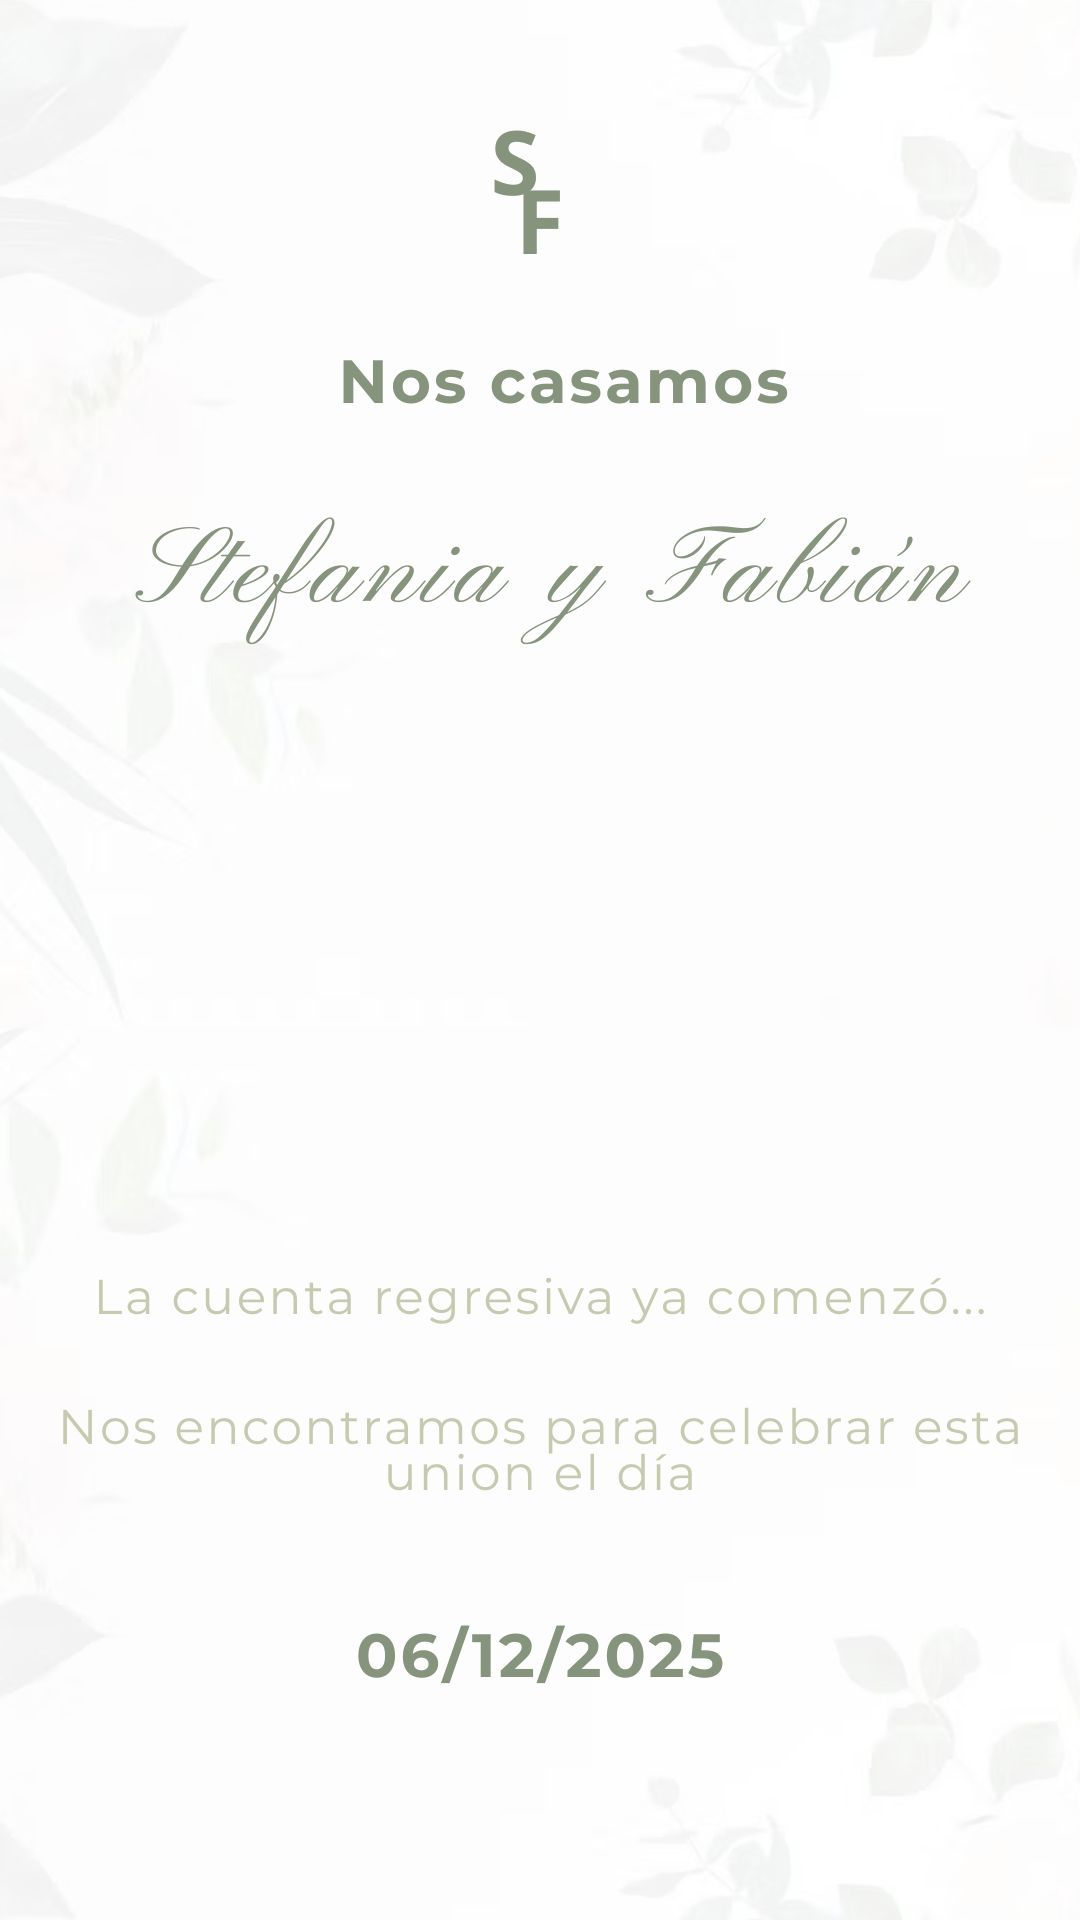
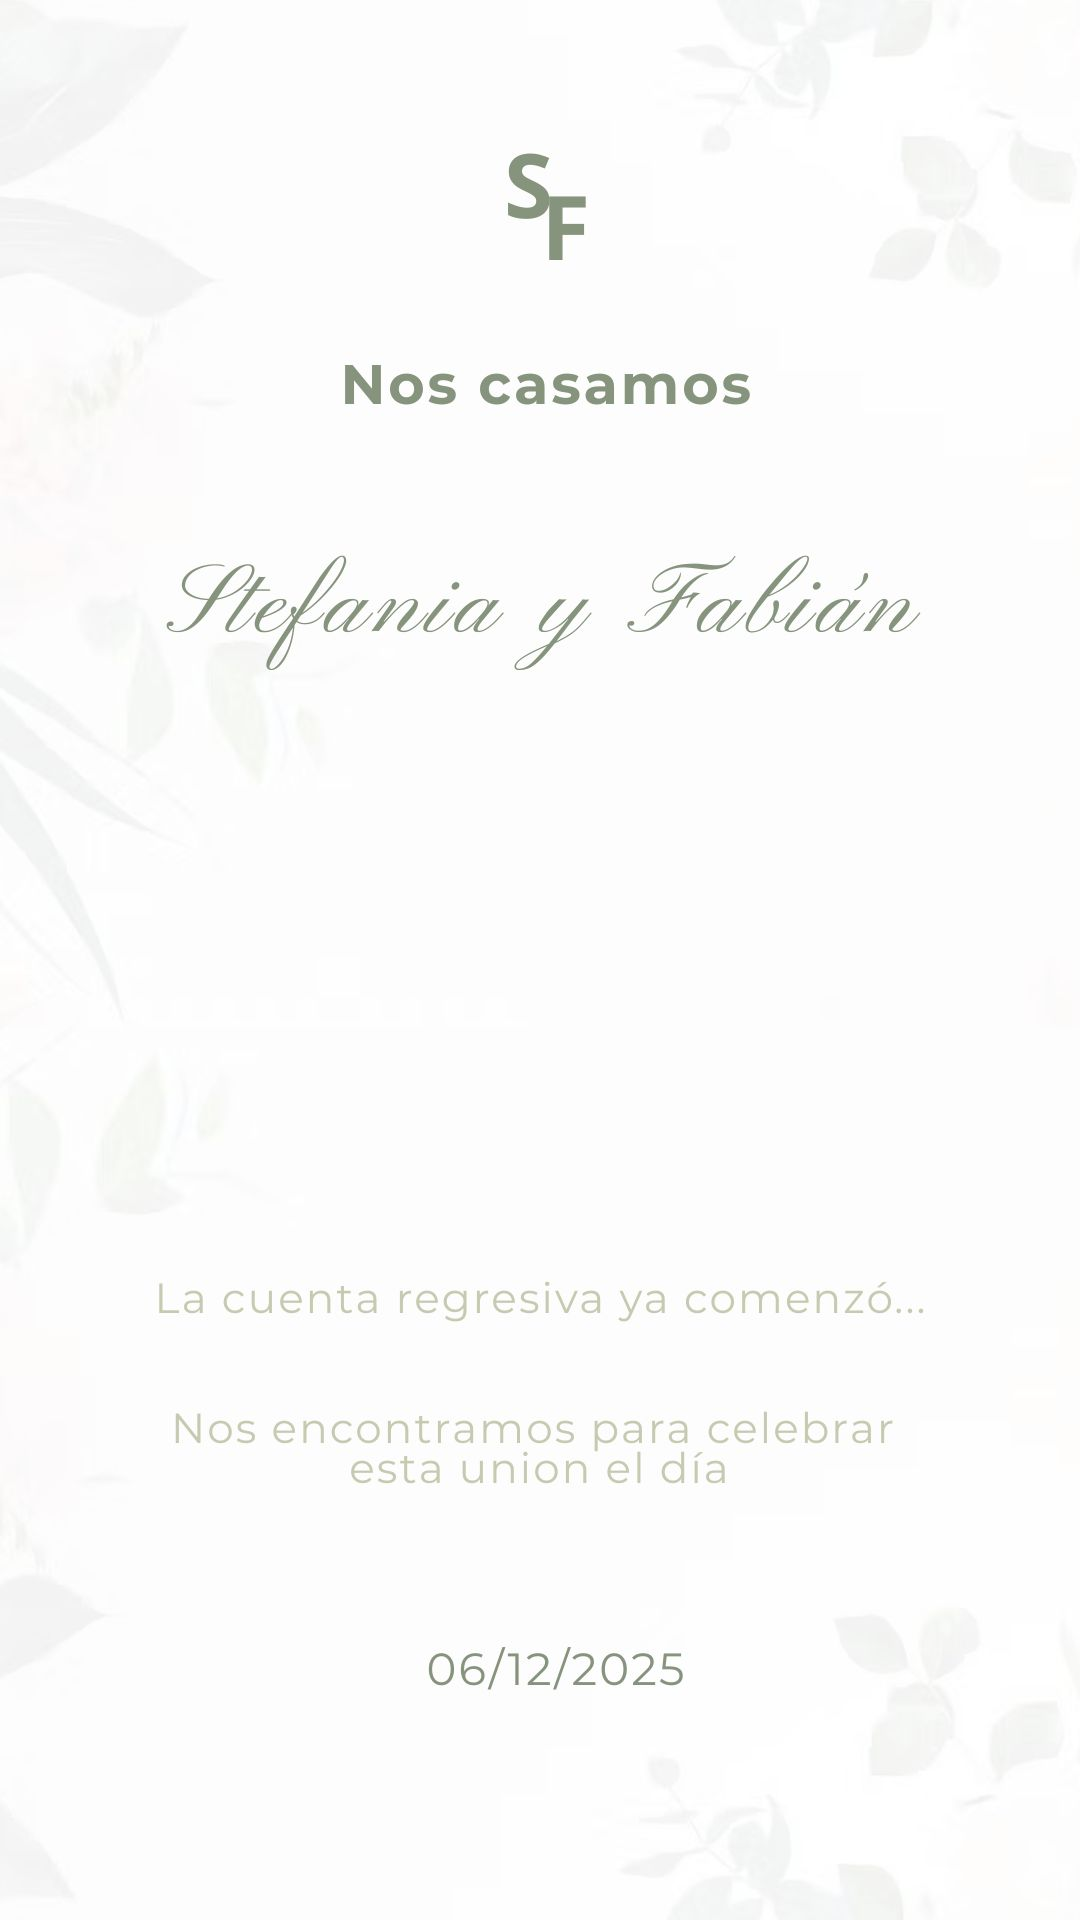
nuevo

diff --git a/style.css b/style.css
@@ -7,47 +7,55 @@
    
   }
 
-.click {
-    padding: 3px 11px;
-    margin-top: -170%;
-    font-size: 28px;
-    font-weight: 600;
-    color: #ffffff;
-   
-   background-size: 120%;
-    box-shadow: 1px 1px 30px -5px#d5ffd7; 
-    cursor: pointer;
-    margin-left: 81%;
-    border-radius: 50%;
-    background-color: #5b603c;
-  }
   
-  .melodia{
-    color: #ffffff;
-
-  }
-
+ 
 
 
   
   
   .portada{
     width: 100%;
-    margin-top: -5%;
+
   }
     
-  .audio{
-    width: 35%;
-    height: 20px;
-    margin-left: -70%;
-    background-color:  #ffffff;
-    color: #3d3d3d;
-    margin-top: -48%;
-    
-}
 
+ /* Contenedor redondo */
+  .music-player {
+    width: 50px;
+  height: 50px;
+  background: #86937d;
+  border-radius: 50%;
+  display: flex;
+  justify-content: center;
+  align-items: center;
+  cursor: pointer;
+  box-shadow: 0 4px 10px rgba(0,0,0,0.3);
+  animation: float 2s ease-in-out infinite; /* movimiento arriba-abajo */
   
+  /* Fijar arriba */
+  position: fixed;
+  top: 20px;   /* distancia desde arriba */
+  right: 20px; /* lo mantiene a la derecha */
+  z-index: 9999; /* asegura que quede por encima de todo */
   
+  }
+
+  /* Botón play */
+  .play-btn {
+    font-size: 28px;
+    color: white;
+    background: none;
+    border: none;
+    outline: none;
+    cursor: pointer;
+  }
+  
+   /* Animación de flotación */
+  @keyframes float {
+    0%   { transform: translateY(0px); }
+    50%  { transform: translateY(-10px); }
+    100% { transform: translateY(0px); }
+  }
   
   
   
@@ -69,16 +77,13 @@
         justify-content: center;
         gap: 1em;
         padding: 0.3em;
-        margin-top: -106%;
+        margin-top: -95%;
     }
     
-  .portada{
-    width: 100%;
-  }
-    
+
   
     .cr-time > span {
-        font-size: 40px;
+        font-size: 25px;
         font-weight: bold;
         color: #86937d;
         font-family: 'Julius Sans One', sans-serif;
@@ -133,7 +138,7 @@
            margin-top: 20%;
     }
   .seccion-fiesta{
-    margin-top: 80%;
+    margin-top: 70%;
   }
   .seccion-regalo{
     margin-top: -5%;
@@ -144,29 +149,28 @@
   
   .fiesta{
     text-align: center;
-    font-size: 40px;
+    font-size: 30px;
     color: #86937d;
-  
     margin: 20%;
-    font-weight: 400;
+    font-weight: 550;
   font-family: "Pinyon Script", cursive;
 
   }
    .asistencia{
     text-align: center;
-    font-size: 40px;
+    font-size: 30px;
     color: #86937d;
     margin-top: 20%; 
-    font-weight: 400;
+    font-weight: 550;
   font-family: "Pinyon Script", cursive;
 
   }
     .musica{
     text-align: center;
-    font-size: 40px;
+    font-size: 30px;
     color: #86937d;
-    margin-top: 20%; 
-    font-weight: 400;
+    margin-top: 15%; 
+    font-weight: 550;
   font-family: "Pinyon Script", cursive;
 
   }
@@ -180,9 +184,15 @@
     font-weight: 400;
   }
   .copas{
-    width: 25%;
-    margin-left: 38%;
-    margin-top: -15%;
+    width: 20%;
+    margin-left: 40%;
+    margin-top: -21%;
+    
+  }
+    .regalo{
+    width: 17%;
+    margin-left: 42%;
+    margin-top: -21%;
     
   }
    .linea{
@@ -192,39 +202,39 @@
    margin-top: 5%;
   }
   .parroquia{
-    width: 23%;
-    margin-left: 40%;
+    width: 17%;
+    margin-left: 41%;
     margin-top: -24%;
     
   }
    .playlis{
-    width: 25%;
-    margin-left: 38%;
-    margin-top: -5%;
+    width: 20%;
+    margin-left: 41%;
+    margin-top: 3%;
     
   }
    .whatsap{
-    width: 40%;
-    margin-left: 32%;
-    margin-top: 5%;
+    width: 30%;
+    margin-left: 35%;
+    margin-top: -5%;
     
   }
   
   .parrafodos{
     text-align: center;
-    font-size: 20px;
+    font-size: 15px;
     color: #787878;
-    margin-top: 5%; 
+    margin-top: -2%; 
    font-family: "Montserrat", sans-serif;
-    font-weight: 400;
+    font-weight: 450;
          
   }
   
     
    
 .separador{
-  width: 50%;
-  margin-left: 27%;
+  width:45%;
+  margin-left: 29%;
 
 }
     .ubicacion {
@@ -290,7 +300,7 @@ margin-top: 15%;
      background-size: 80%;
       box-shadow: 1px 1px 30px -5px#d2c598; 
       cursor: pointer;
-      background-color: #5b603c;
+      background-color: #86937d;
       text-decoration: none;
 }
 .click2{
@@ -305,7 +315,7 @@ margin-top: 15%;
      background-size: 80%;
       box-shadow: 1px 1px 30px -5px#d2c598; 
       cursor: pointer;
-      background-color: #5b603c;
+      background-color: #86937d;
       text-decoration: none;
 }
 .tecla {

diff --git a/index.html b/index.html
@@ -34,25 +34,28 @@
 
 <body>
 
+ 
+ <audio id="audio" src="./musica/videoplayback.m4a"></audio>
 
-  
-
-
-  <audio class="audio" src="./musica/" controls>
-  </audio>
+<div class="music-player" id="player">
+  <button class="play-btn" id="playBtn">▶</button>
+</div>
+   
   
 
 
 
   <div>
+    
     <img class="portada"  src="./IMAGENES/portada.jpg" alt="" srcset="">
-  </div>
-  
-  <button class="click" id="botonn"><span class="melodia">❚❚</span></button>
+    
  
 
 
+
+
  
+
 
 
 
@@ -108,6 +111,8 @@
 
 <section class="seccion-fiesta">
   <img class="separador" src="./IMAGENES/separarador-3-768x432.png" alt="">
+
+
   <h2 class="fiesta">Ceremonia</h2>
   <img class="copas" src="./IMAGENES/anillo.gif" alt="">
   
@@ -155,9 +160,9 @@
 
 <section class="seccion-vestimenta">
   <h2 class="fiesta">Regalo</h2>
-  <img class="copas" src="./IMAGENES/regalo.png" alt="">
+  <img class="regalo" src="./IMAGENES/regalo.png" alt="">
   
-  <p class="parrafodos"> No necesitamos mas que <br> tu presencia
+  <p class="parrafodos"> No necesitamos más que <br> tu presencia
     pero si queres <br> hacernos algun regalo te  <br> dejamos una opción.
   </p>
 <Div class="boton">
@@ -209,8 +214,8 @@ CBU: ...
 
 
 <p class="musica"> Música</p> 
-<img class="playlis" src="./IMAGENES/musica.gif" alt="">
-      <p class="parrafodos">¿Qué tema no puede faltar ?  </p> 
+<img class="playlis" src="./IMAGENES/musica.gif" alt=""> <br><br>
+      <p class="parrafodos">¿Qué tema no puede faltar ?  </p>  
      <div class="boton">
       <a class="click3" href="https://forms.gle/kUXc1C7M13Xpgz8eA" target="_blank">RECOMENDAR CANCIÓN</a>
      </div>
@@ -239,38 +244,21 @@ CBU: ...
 
 
 
-<script type="text/javascript">
- 
-var v = document.getElementsByTagName("audio")[0];
- 
-var sound = false;
- 
-var botonn = document.getElementById("botonn");
- 
-botonn.addEventListener("musica", function(){
- 
-if (!sound) {
- 
-v.play();
- 
-this.innerHTML = "♬";
- 
-sound = true;
- 
-} else {
- 
-v.pause();
- 
-this.innerHTML = "▼";
- 
-sound = false;
- 
-}
- 
-});
- 
+<script>
+  const audio = document.getElementById("audio");
+  const playBtn = document.getElementById("playBtn");
+
+  playBtn.addEventListener("click", () => {
+    if (audio.paused) {
+      audio.play();
+      playBtn.textContent = "❚❚"; // pausa
+    } else {
+      audio.pause();
+      playBtn.textContent = "▶"; // play
+    }
+  });
 </script>
-  
+
 
 
   <script src="//cdn.jsdelivr.net/npm/sweetalert2@11"></script>

diff --git a/script.js b/script.js
@@ -1,14 +1,4 @@
-botonn.addEventListener("click", function(){
-    if (!sound) {
-      v.play();
-      this.innerHTML = "➤";
-      sound = true;
-     } else {
-      v.pause();
-      this.innerHTML = "❚❚";
-      sound = false;
-     } 
-   });
+
 
    
 let diaEvento = new Date('December 06, 2025 21:30:00').getTime();
